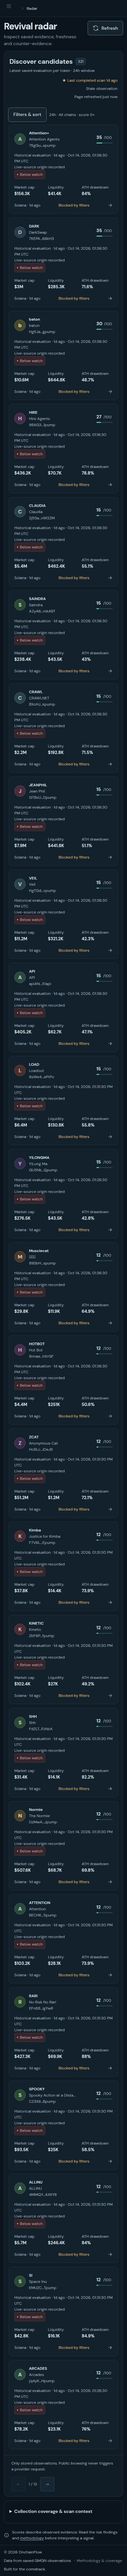
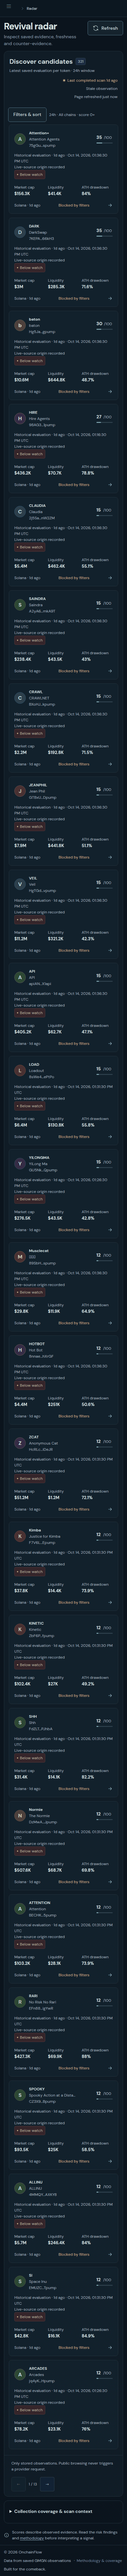
Trim committed gate screenshots to key pages as palette PNGs (#75)

diff --git a/docs/release/V2_RELEASE_GATE.md b/docs/release/V2_RELEASE_GATE.md
@@ -106,9 +106,12 @@ result for G8 and G16 stays FAIL until a fix is re-measured with the same thresh
   cold starts). They do not measure the VPS, TLS or Internet latency.
 - The schema-7 call journal costs up to 0.64 s cold because it is computed on read
   (the projection is empty); this is the rollback/compat path, still under the deadline.
-- Screenshots: full-page 1366 and 390 for every page, and the 200% zoom set for Signals
-  (grouped), Signal #45, Token PAID and the Track Record journal. Other sizes are in the
-  JSON (overflow, contrast, console, external requests, keyboard, motion per page/size).
+- Screenshots (64-colour palette PNG to keep the repository small, text remains legible):
+  full-page 1366 and 390 for Signals (flat), Signal #45, Token PAID, Track Record journal
+  and worst-first, Radar (stale/empty and unfiltered 24 h) and the Radar 7-day failure.
+  The other pages, the 200% zoom set and all other sizes were captured and checked, but
+  their screenshots are not committed; their per-page/per-size results (overflow, contrast,
+  console, external requests, keyboard, motion) are in the evidence JSON.
 - Private inputs (the database copy and its derived copies) were never modified or
   committed; the pristine schema-7 working copy is byte-identical (sha256) to the original after all steps, and every mutating
   step used a copy outside the repository.
